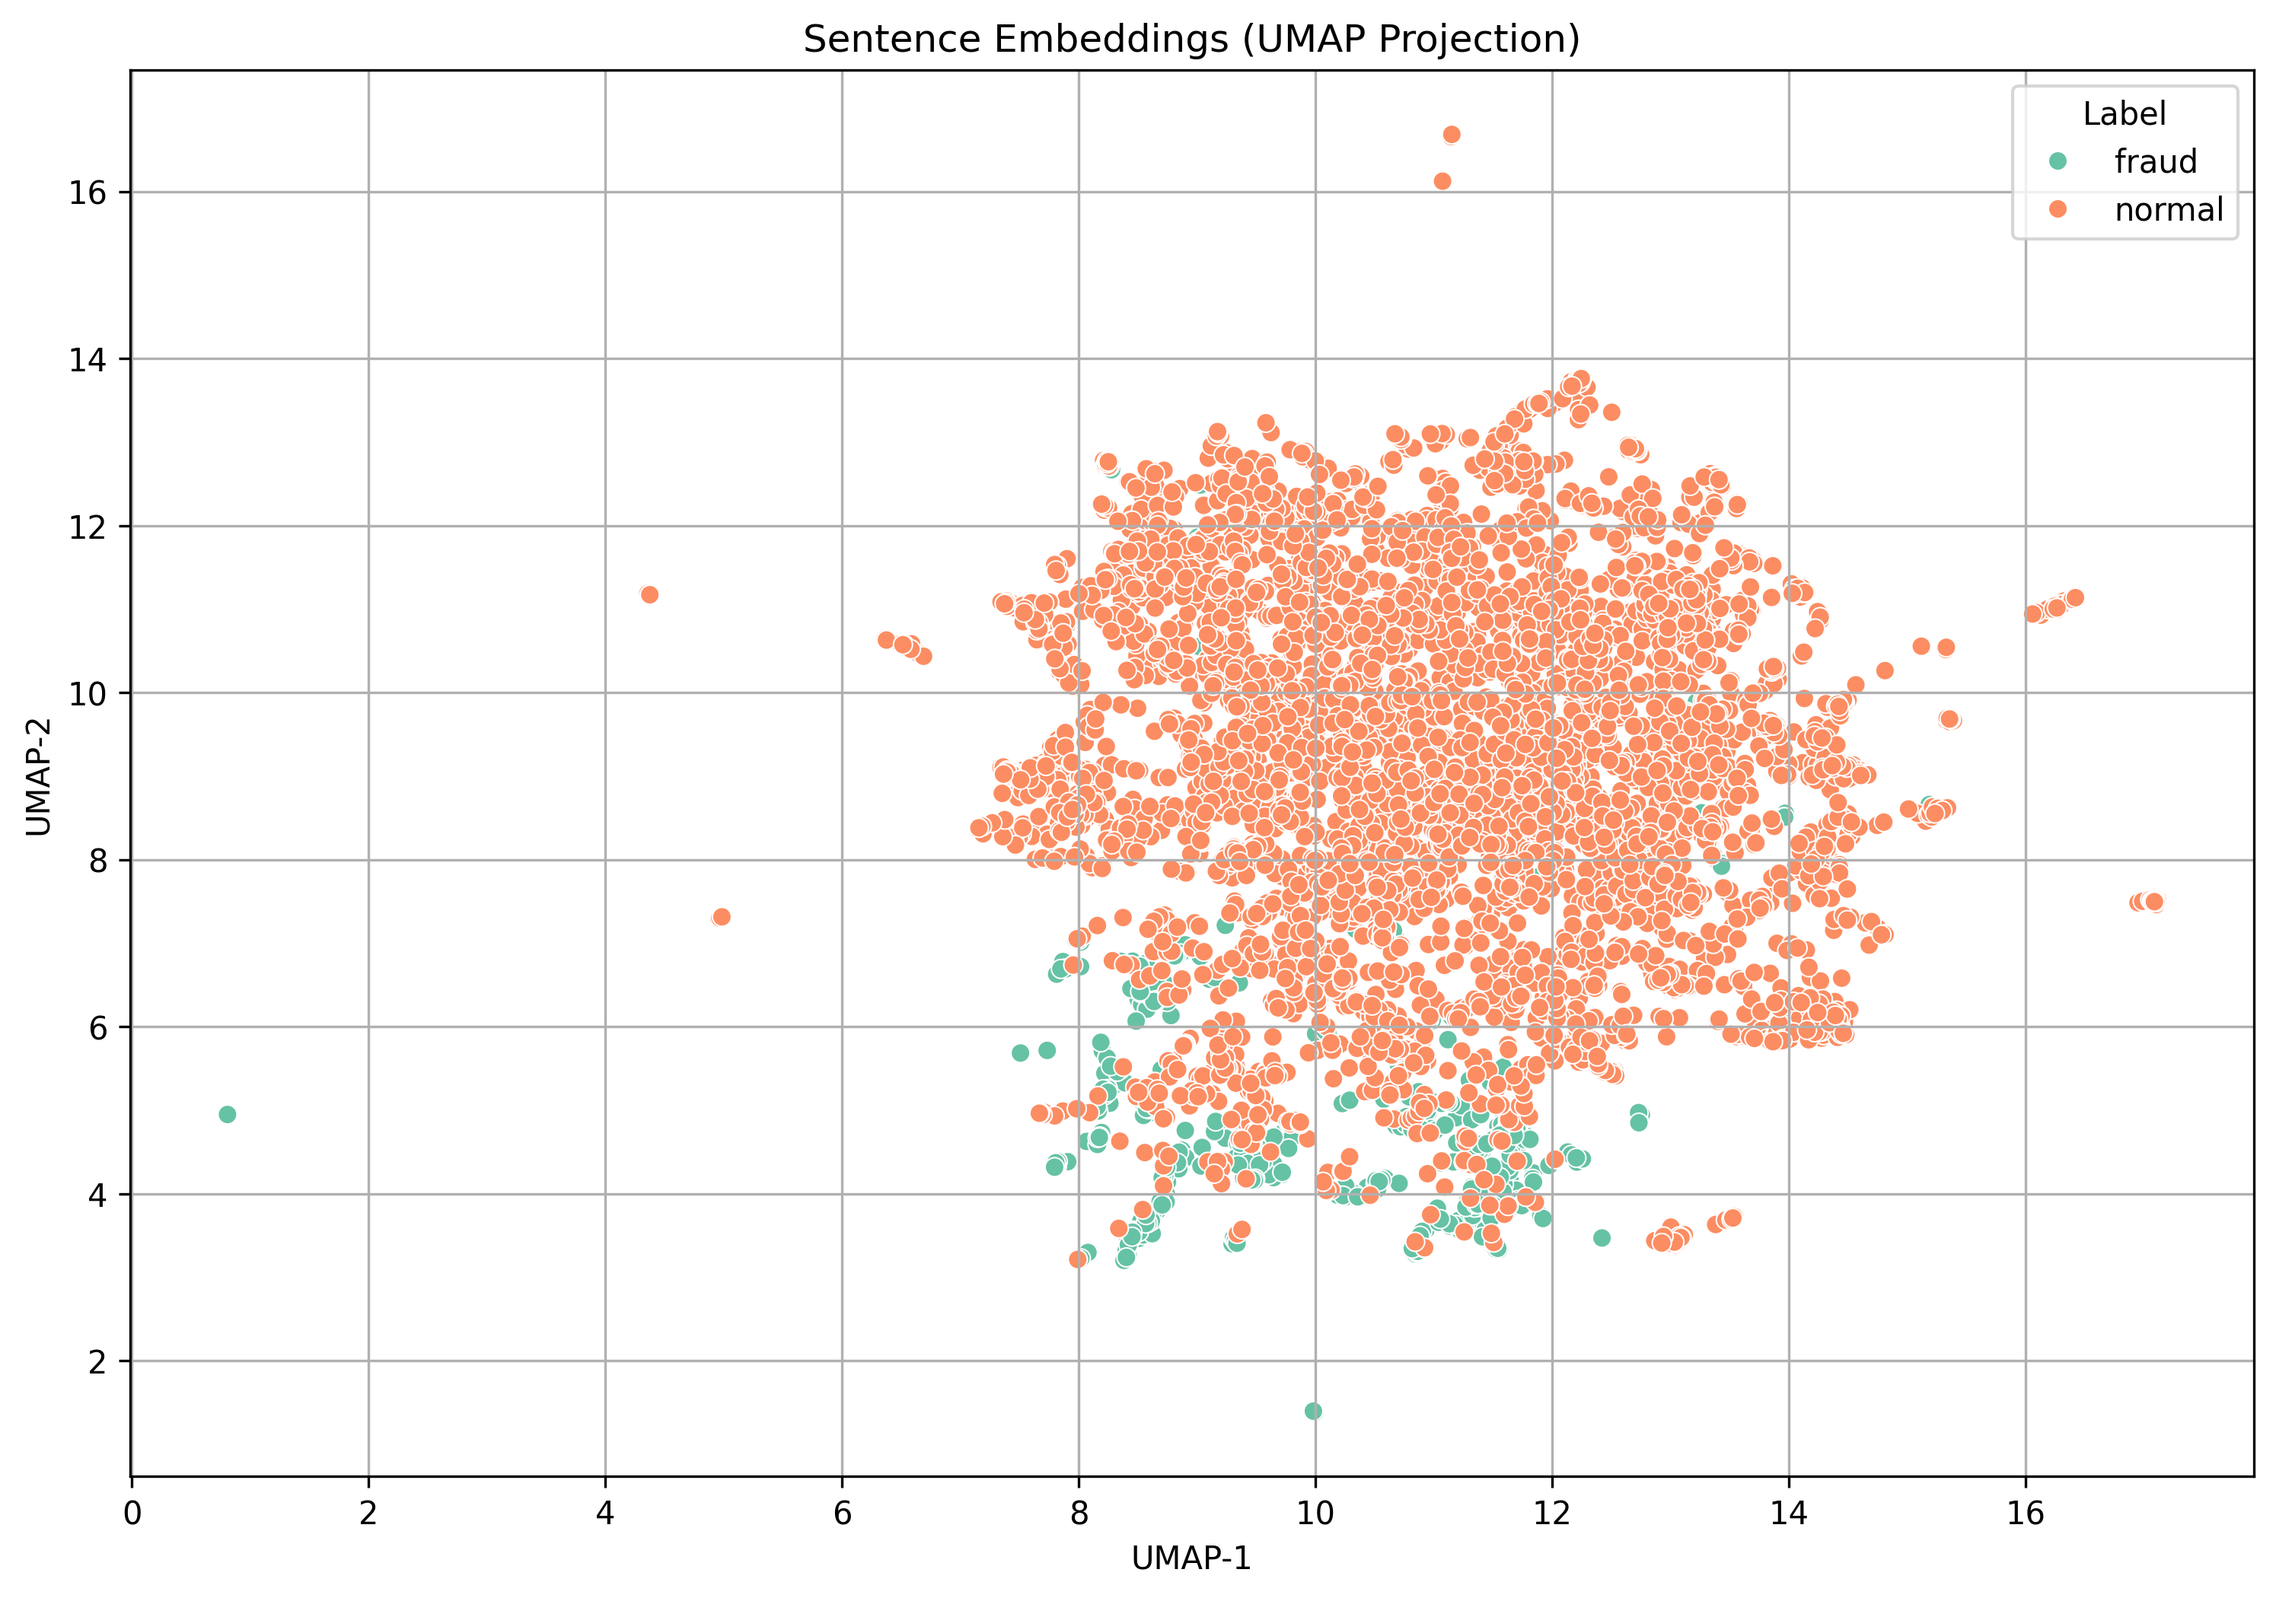
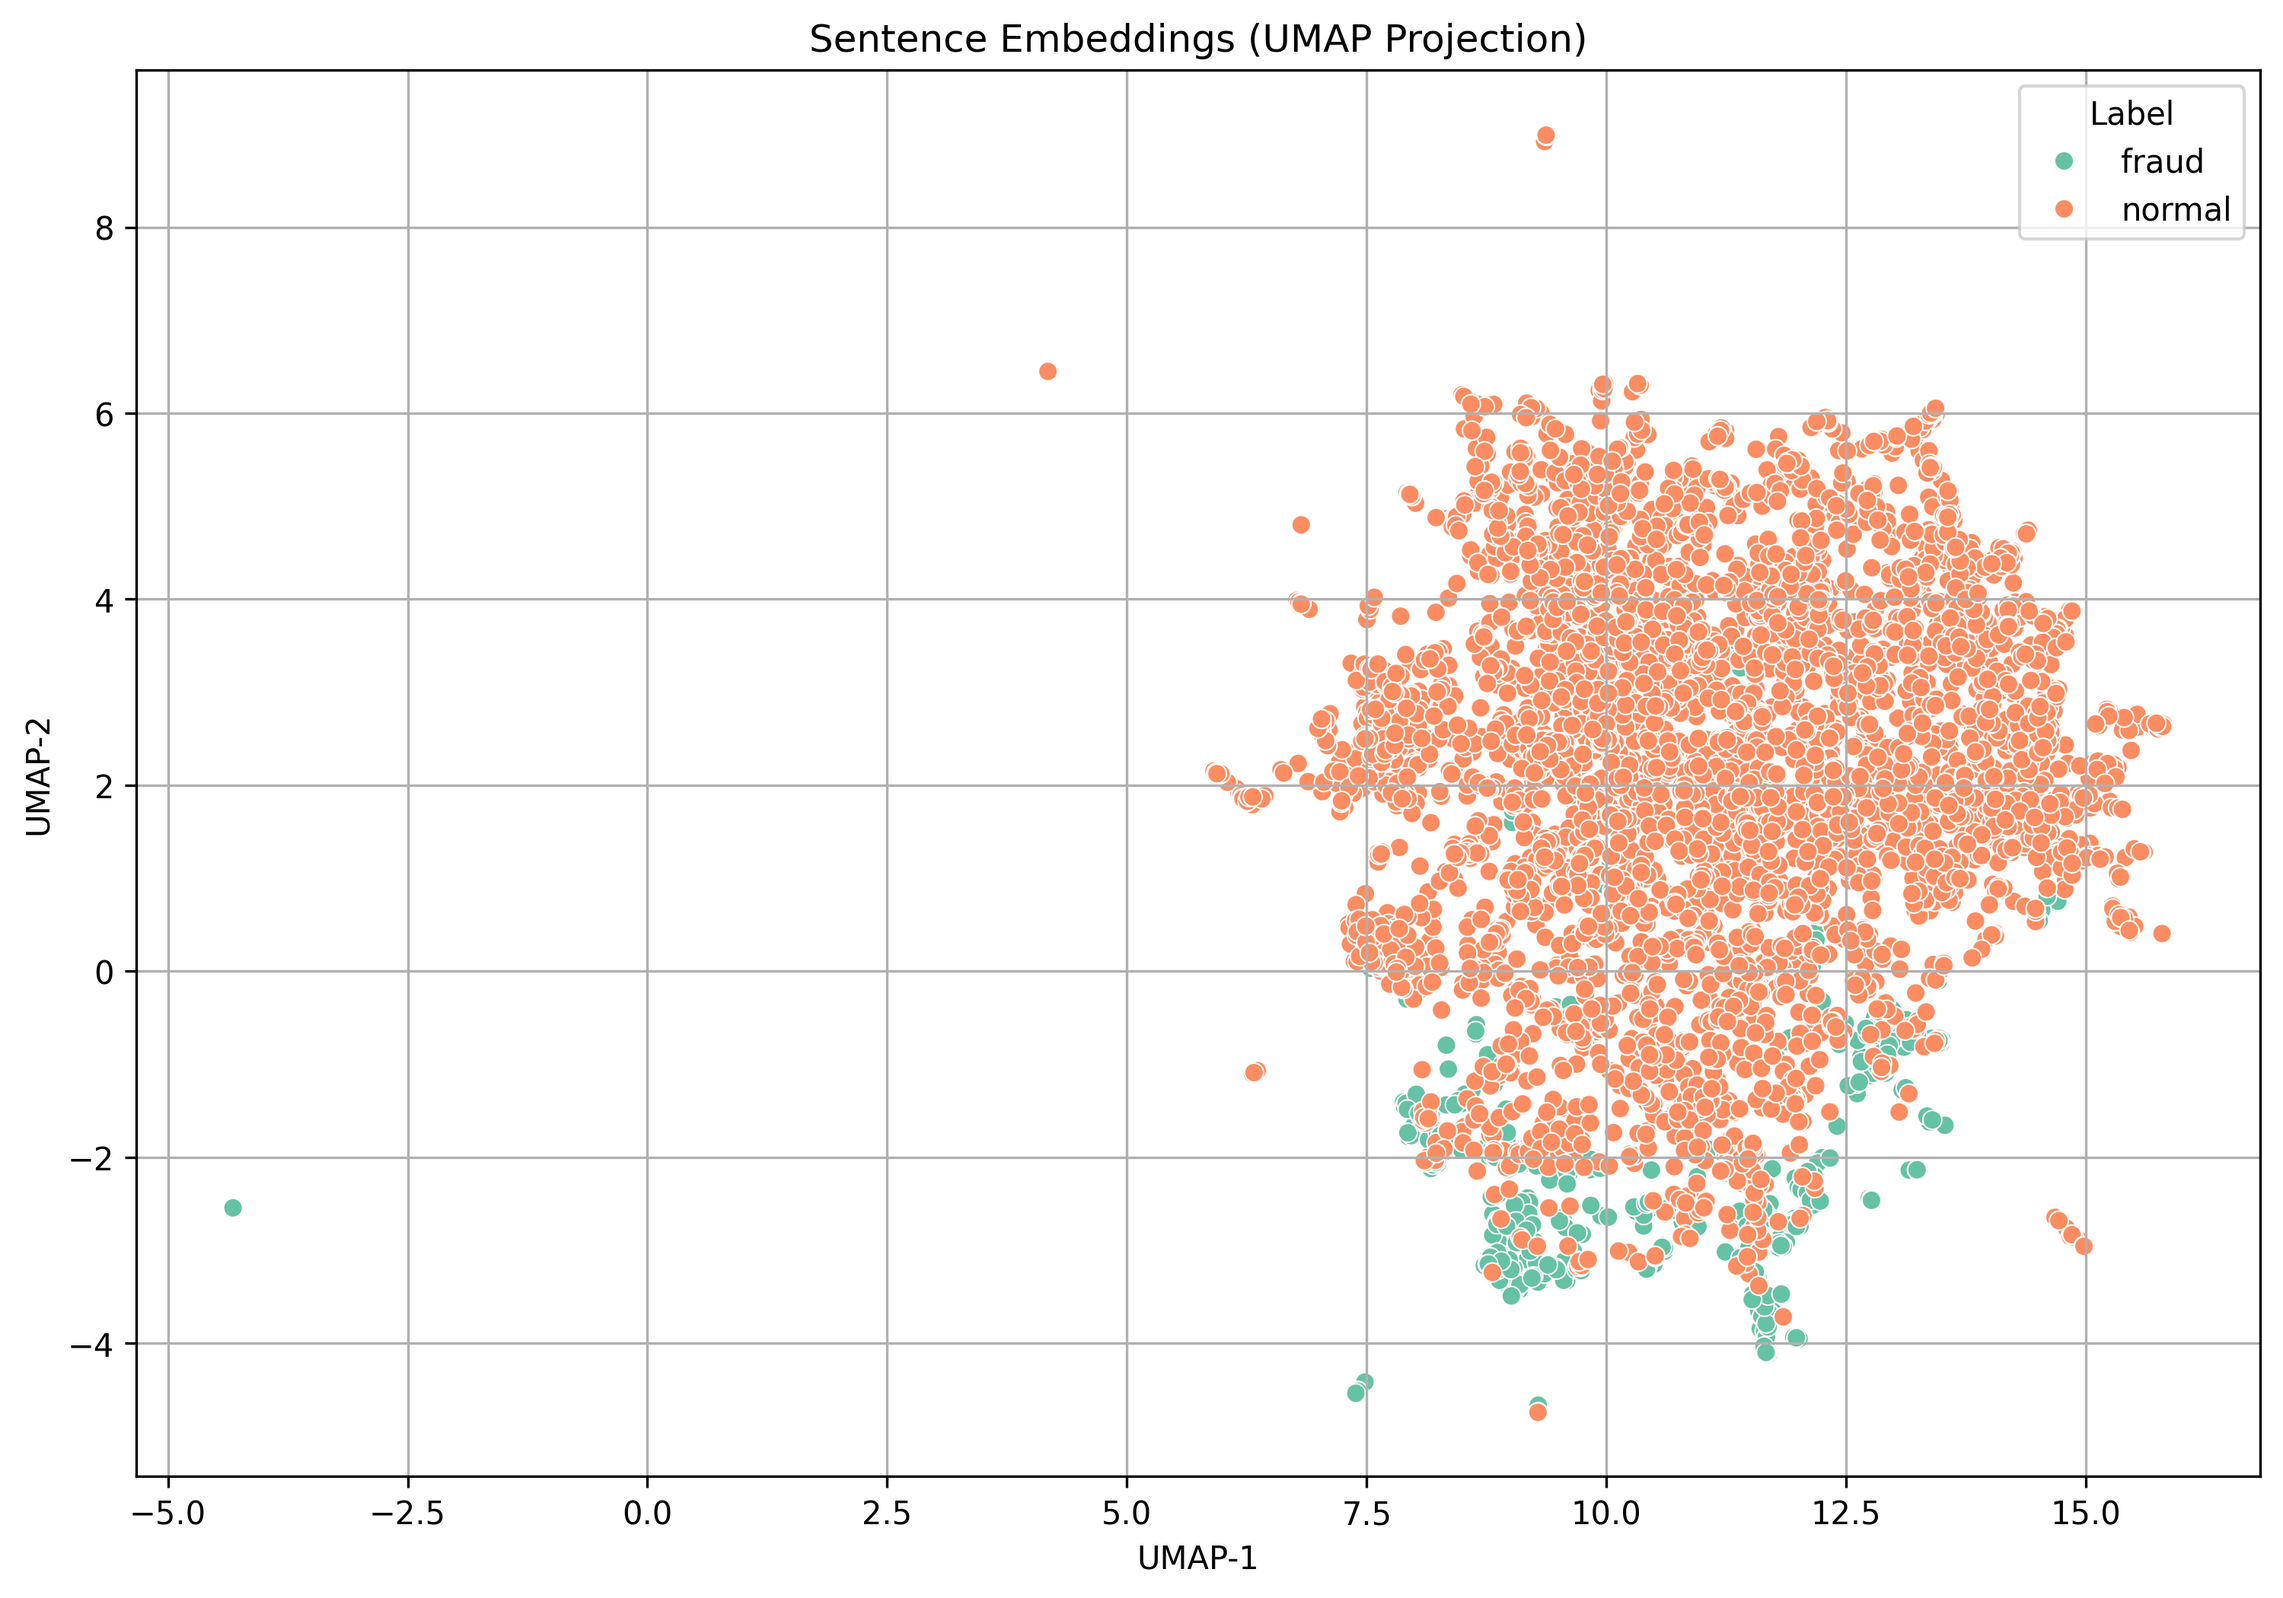
word embeddings added

diff --git a/code/embeddings.py b/code/embeddings.py
@@ -3,11 +3,16 @@ import numpy as np
 import matplotlib.pyplot as plt
 import seaborn as sns
 from sklearn.decomposition import PCA
-from sklearn.cluster import KMeans, DBSCAN
+from sklearn.cluster import KMeans
 from sklearn.metrics import silhouette_score
 from sentence_transformers import SentenceTransformer
 from gensim.models import Word2Vec
+from nltk.corpus import stopwords
+from collections import defaultdict
 import umap
+
+# Setup stopwords
+stop_words = set(stopwords.words('english'))
 
 # Step 1: Load & Clean Dataset
 df = pd.read_csv("../data/6_sorted_quoted.csv")
@@ -16,14 +21,13 @@ def preprocess_message(msg):
     return [word.strip().lower() for word in str(msg).split(',') if word.strip()]
 
 df['tokens'] = df['message'].apply(preprocess_message)
+df['tokens'] = df['tokens'].apply(lambda tokens: [word for word in tokens if word not in stop_words])
 df['clean_sentence'] = df['tokens'].apply(lambda words: ' '.join(words))
 sentences = df['clean_sentence'].tolist()
 
 # Step 2: Sentence Embeddings using Sentence-BERT
 model = SentenceTransformer('all-MiniLM-L6-v2')
 sentence_embeddings = model.encode(sentences, show_progress_bar=True)
-
-# Optional: Store for future use
 df['sentence_embedding'] = list(sentence_embeddings)
 
 # Step 3: Visualize Sentence Embeddings (UMAP)
@@ -38,25 +42,38 @@ sil_score = silhouette_score(sentence_embeddings, clusters)
 print(f"Silhouette Score (KMeans): {sil_score:.3f}")
 
 # Step 5: Word Embeddings using Word2Vec
-word2vec_model = Word2Vec(sentences=df['tokens'], vector_size=100, window=5, min_count=1, workers=4)
+word2vec_model = Word2Vec(sentences=df['tokens'], vector_size=100, window=5, min_count=3, workers=4)
 word_vectors = word2vec_model.wv
-
-# Get most common words
-top_words = [word for word in word_vectors.index_to_key[:100]]
+top_words = [word for word in word_vectors.index_to_key[:200]]
 word_vecs = [word_vectors[word] for word in top_words]
 
-# UMAP for word embeddings
+# NEW: Count how often each word appears in fraud vs normal
+word_label_counts = defaultdict(lambda: {'fraud': 0, 'normal': 0})
+for tokens, label in zip(df['tokens'], df['label']):
+    label = label.strip().lower()
+    for word in set(tokens):
+        word_label_counts[word][label] += 1
+
+# NEW: Determine dominant label for each word
+def dominant_label(word):
+    counts = word_label_counts[word]
+    return 'fraud' if counts['fraud'] > counts['normal'] else 'normal'
+
+word_labels = [dominant_label(word) for word in top_words]
+palette = {'fraud': 'red', 'normal': 'blue'}
+
+# Step 6: UMAP for word embeddings + color by label
 word_2d = reducer.fit_transform(word_vecs)
 
-# Step 6: Plot Word Embedding Space
-plt.figure(figsize=(12, 8))
+plt.figure(figsize=(14, 10))
 for i, word in enumerate(top_words):
     x, y = word_2d[i]
-    plt.scatter(x, y)
-    plt.text(x+0.01, y+0.01, word, fontsize=9)
-plt.title("Word2Vec Embeddings (UMAP Projection)")
+    color = palette[word_labels[i]]
+    plt.scatter(x, y, color=color)
+    plt.text(x + 0.01, y + 0.01, word, fontsize=9, color=color)
+plt.title("Word2Vec Embeddings Colored by Dominant Usage (Fraud vs Normal)")
 plt.grid(True)
-plt.savefig("../results/word2vec.png", dpi=300, bbox_inches='tight')
+plt.savefig("../results/word2vec_by_label.png", dpi=300, bbox_inches='tight')
 
 # Step 7: Plot Sentence Embeddings
 plt.figure(figsize=(12, 8))
